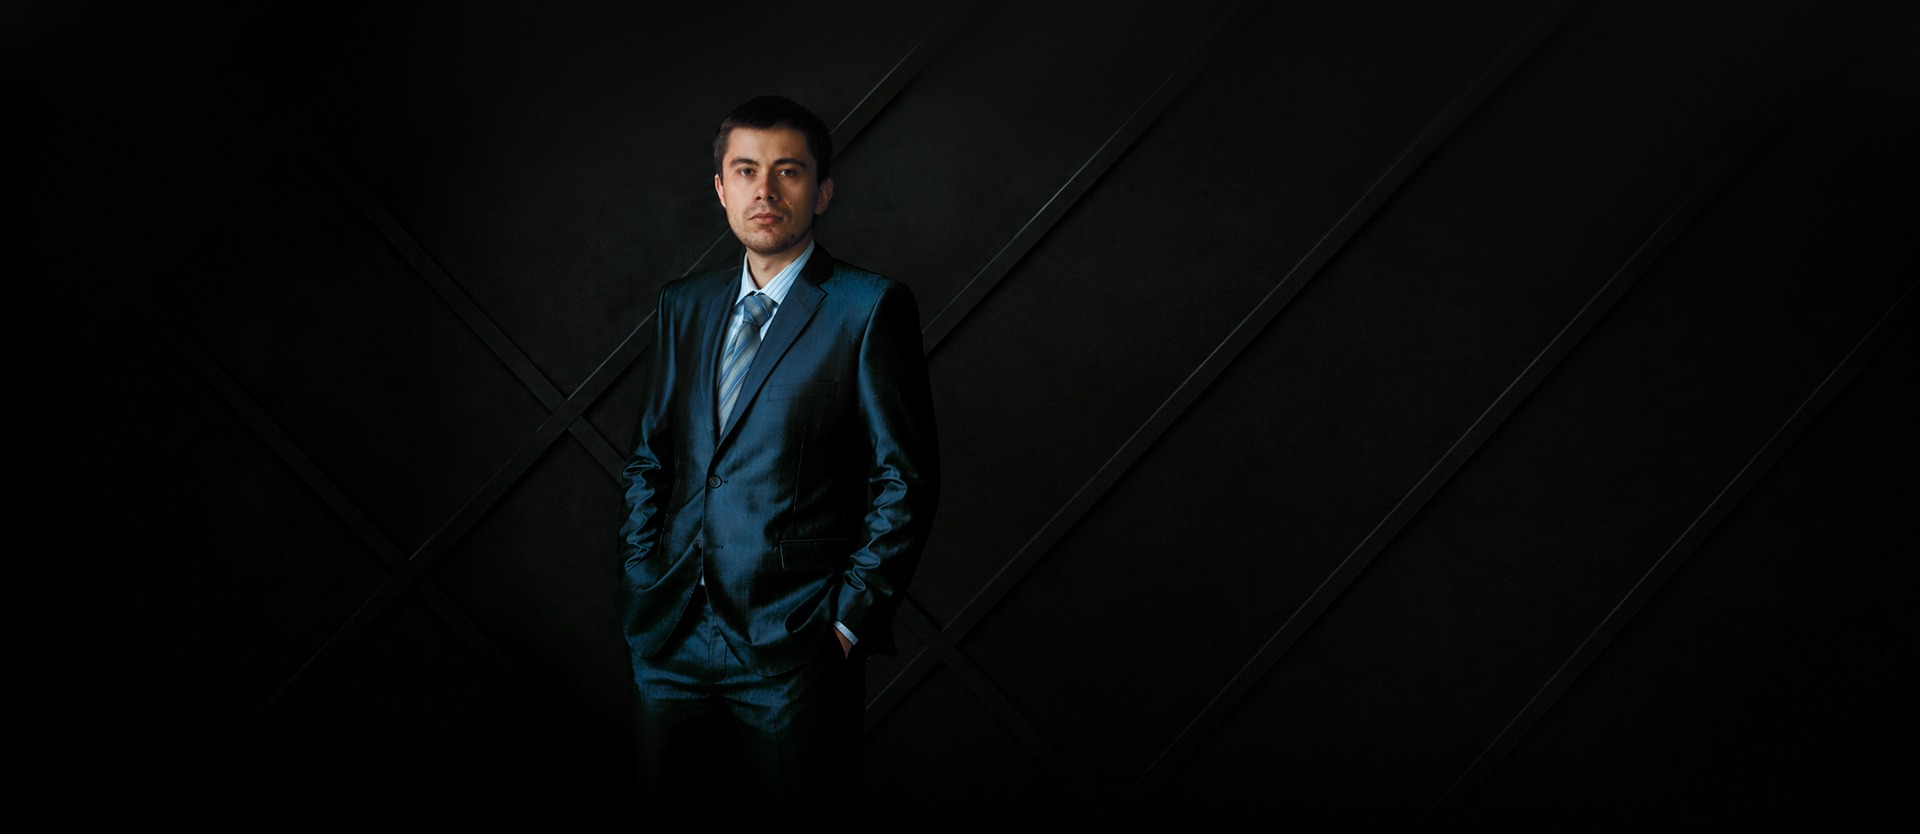
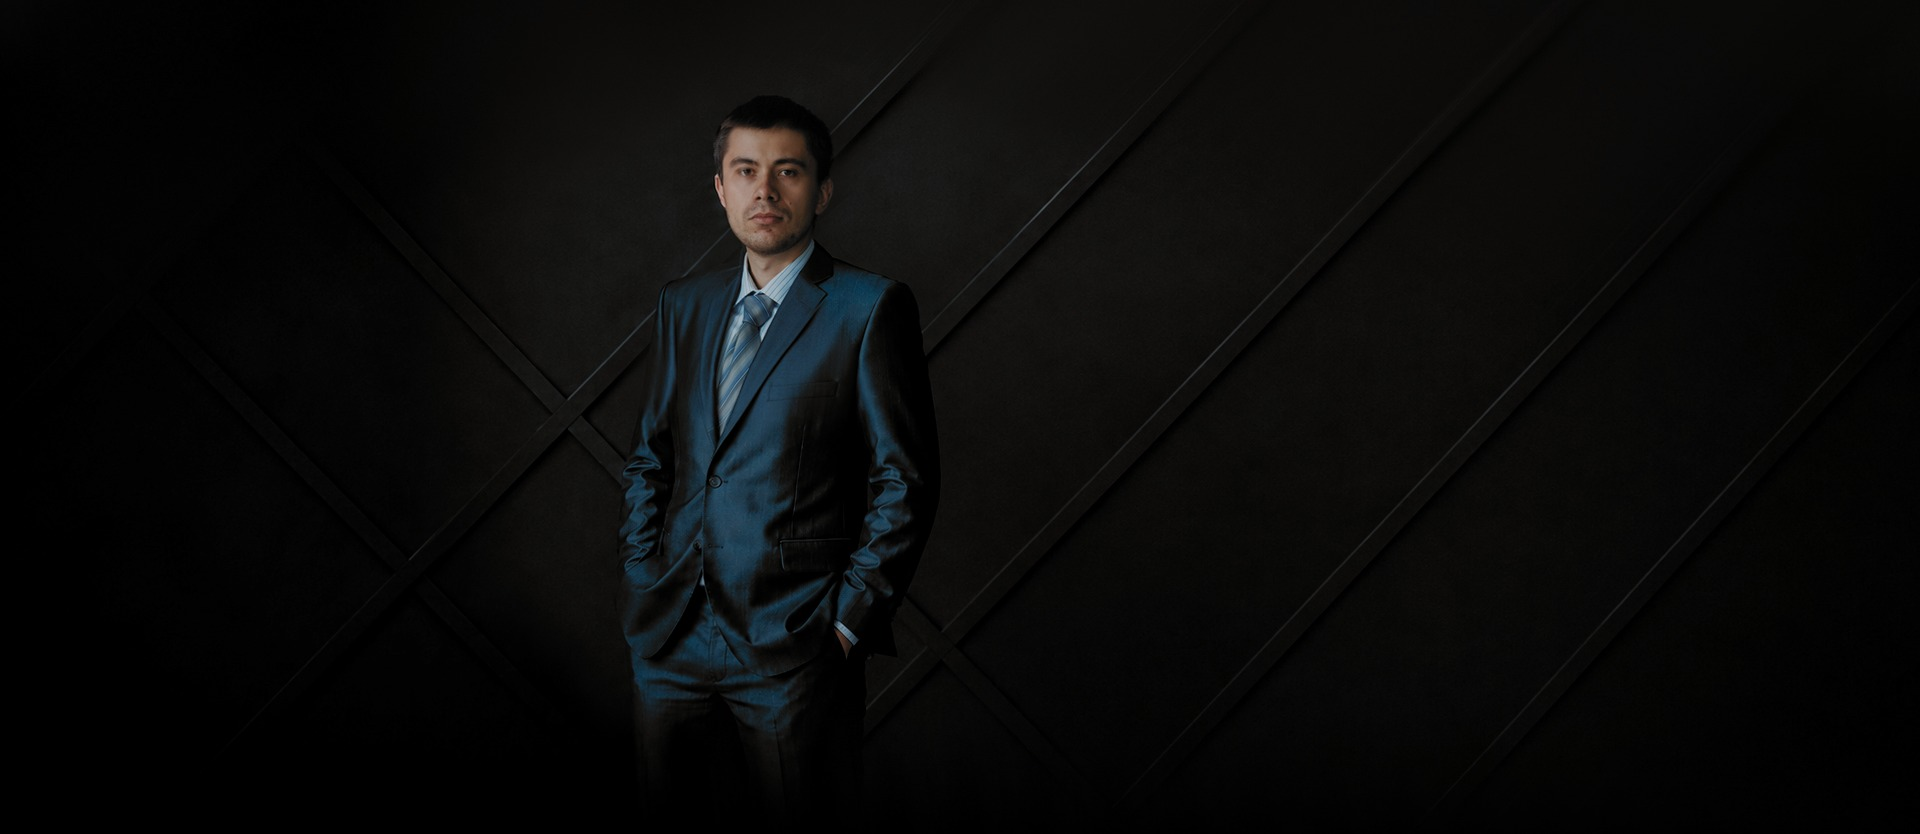
style(вопросы): снимок успокоен под палитру сайта, на телефоне фигура крупнее
- тон стены сведён в графит сайта, светлые тона придавлены,
  насыщенность -18%; тени не тронуты, стыки остались бесшовными
- телефон: увеличение 240% и полоса выше — фигура крупнее и входит
  до пояса; у полосы перехода свой цвет под мобильный крой
- замер стыков: скачок цвета <= 2 единиц на ПК, <= 1 на телефоне

Changed region(s): [[0.375, 0.1559, 0.4375, 0.4988]]

diff --git a/site/site.css b/site/site.css
@@ -2754,7 +2754,7 @@ h2.levels-title{position:relative;z-index:1;max-width:1180px;margin:0 auto clamp
 }
 /* СТЫКИ. Снимок не затемняется — вместо этого подгоняется цвет фона
    страницы вокруг него, поэтому границы просто не видно.
-   Замеры по самому файлу: верхняя строка кадра — rgb(8,9,8),
+   Замеры по самому файлу: верхняя строка кадра — rgb(10,9,9),
    нижняя — rgb(0,0,0). Фон страницы — rgb(23,22,20), блок «Финал»
    ниже — rgb(11,11,9).
 
@@ -2765,7 +2765,7 @@ h2.levels-title{position:relative;z-index:1;max-width:1180px;margin:0 auto clamp
   content:"";position:absolute;z-index:0;pointer-events:none;
   left:calc(50% - 50vw);width:100vw;
   top:calc(-1 * var(--faq-fade));height:var(--faq-fade);
-  background:linear-gradient(to bottom,rgba(8,9,8,0) 0,rgba(8,9,8,.6) 62%,rgb(8,9,8) 100%);
+  background:linear-gradient(to bottom,rgba(10,9,9,0) 0,rgba(10,9,9,.6) 62%,rgb(10,9,9) 100%);
 }
 /* Снизу: под кадром оставалась светлая полоса фона страницы перед
    «Финалом» — тот самый зазор. Закрываем её переходом от цвета НИЖНЕЙ
@@ -3151,22 +3151,28 @@ h2.levels-title{position:relative;z-index:1;max-width:1180px;margin:0 auto clamp
      ширину 1920×964, а её середину с фигурой. Пропорции держит
      background-size с одним значением. */
   .faq-bg{
-    left:calc(50% - 50vw);top:0;width:100vw;height:clamp(250px,76vw,400px);
+    left:calc(50% - 50vw);top:0;width:100vw;height:clamp(300px,92vw,470px);
     background-image:url("assets/faq-sasha-2026-wide-fit.jpg");
-    /* Меньше увеличение (210% вместо 250%) и полоса выше — иначе кадр
-       обрывался прямо под подбородком и голова выглядела отрезанной.
-       Сейчас видно фигуру примерно до пуговицы пиджака. */
-    background-size:210% auto;background-position:30% 0;
+    /* Полоса выше и увеличение 240%: фигура крупнее, и при этом входит
+       больше туловища — до пояса. Кадр не должен обрываться под
+       подбородком, иначе голова выглядит отрезанной. */
+    background-size:240% auto;background-position:31% 0;
     /* Низ кадра здесь приходится на середину снимка (пиджак, блики) —
        одним цветом такой край не состыковать, поэтому последняя шестая
        часть полосы растворяется в фоне страницы. Лица это не касается:
        растворяется только низ, ниже пояса. */
-    -webkit-mask-image:linear-gradient(to bottom,#000 0,#000 84%,transparent 100%);
-            mask-image:linear-gradient(to bottom,#000 0,#000 84%,transparent 100%);
+    -webkit-mask-image:linear-gradient(to bottom,#000 0,#000 70%,transparent 100%);
+            mask-image:linear-gradient(to bottom,#000 0,#000 70%,transparent 100%);
   }
-  /* верх стыкуем так же, как на ПК, а низ уводим в цвет «Финала» */
+  /* На телефоне видна другая (чуть более светлая) часть кадра, чем на
+     ПК, поэтому полоса перехода сверху уводится в свой цвет —
+     замер по верхней строке мобильного кроя: rgb(16,15,13). */
+  .faq::before{
+    background:linear-gradient(to bottom,rgba(16,15,13,0) 0,rgba(16,15,13,.6) 62%,rgb(16,15,13) 100%);
+  }
+  /* низ уводим в цвет «Финала» */
   .faq::after{
-    top:clamp(250px,76vw,400px);
+    top:clamp(300px,92vw,470px);
     background:linear-gradient(to bottom,rgba(23,22,20,0) 0,rgba(17,16,14,.85) 55%,rgb(11,11,9) 100%);
   }
   .faq-head .sec-title{font-size:clamp(26px,7.6vw,38px);}

diff --git a/docs/site-map.md b/docs/site-map.md
@@ -84,10 +84,16 @@ cd site && grep -n "<!-- [0-9]\|<section" index.html && grep -n "^/\* ═══\
 всю ширину экрана: `faq-sasha-2026-wide-fit.jpg` (1920×834).
 Это исходник `faq-sasha-2026-wide.jpg.jpg` (1920×964), у которого
 **срезано 130px пустой стены сверху** (голова стояла слишком низко)
-и **убрана синева стены**: в тёмных тонах каналы сведены к
-нейтральному (B−R было +5…+6, стало 0), пиджак остался синим —
-коррекция взвешена по яркости, светлые тона не тронуты. Исходник
-в репозитории остался.
+и снимок «успокоен» под палитру сайта тремя шагами (все — по яркости,
+светлые тона и фигура почти не тронуты):
+1) **тон стены сведён в графит сайта** `rgb(23,22,20)` — та же
+   пропорция каналов при своей яркости (была синева, B−R +5…+6);
+2) **светлые тона придавлены** (порог 52, коэффициент 0.72) — пятно
+   света на стене и блики больше не выбиваются контрастом;
+3) **насыщенность −18%**.
+Тени не трогаются вообще: на них держатся бесшовные стыки.
+Исходник `faq-sasha-2026-wide.jpg.jpg` в репозитории остался — если
+обработка не нужна, вернуть его дело одной строки.
 `background-size:100% auto` (не `cover`) — кадр по своей пропорции,
 не растянут под высоту блока, поэтому не мылится. `padding-top` блока
 (`clamp(150px,17vw,300px)`) и расположение текста — **не менять**,
@@ -103,9 +109,11 @@ cd site && grep -n "<!-- [0-9]\|<section" index.html && grep -n "^/\* ═══\
 обоих стыках ≤ 1 единицы.
 На телефоне низ кадра приходится на середину снимка (пиджак, блики) —
 одним цветом не состыковать, поэтому там последняя 1/6 полосы
-растворяется маской. Лица это не касается. Увеличение на телефоне —
-210% (не больше): при 250% кадр обрывался под подбородком и голова
-выглядела отрезанной.
+растворяется маской (с 70% высоты). Лица это не касается.
+Увеличение на телефоне — 240%, высота полосы `clamp(300px,92vw,470px)`:
+фигура крупная и входит до пояса. У `.faq::before` на телефоне свой
+цвет `rgb(16,15,13)` — там виден другой, чуть более светлый участок
+кадра, чем на ПК, и общий цвет ПК давал ступеньку на стыке.
 
 Прежние `faq-sasha-wide.jpg` и `faq-sasha-2026.jpg` в репозитории
 остались, но в вёрстке больше не используются.
